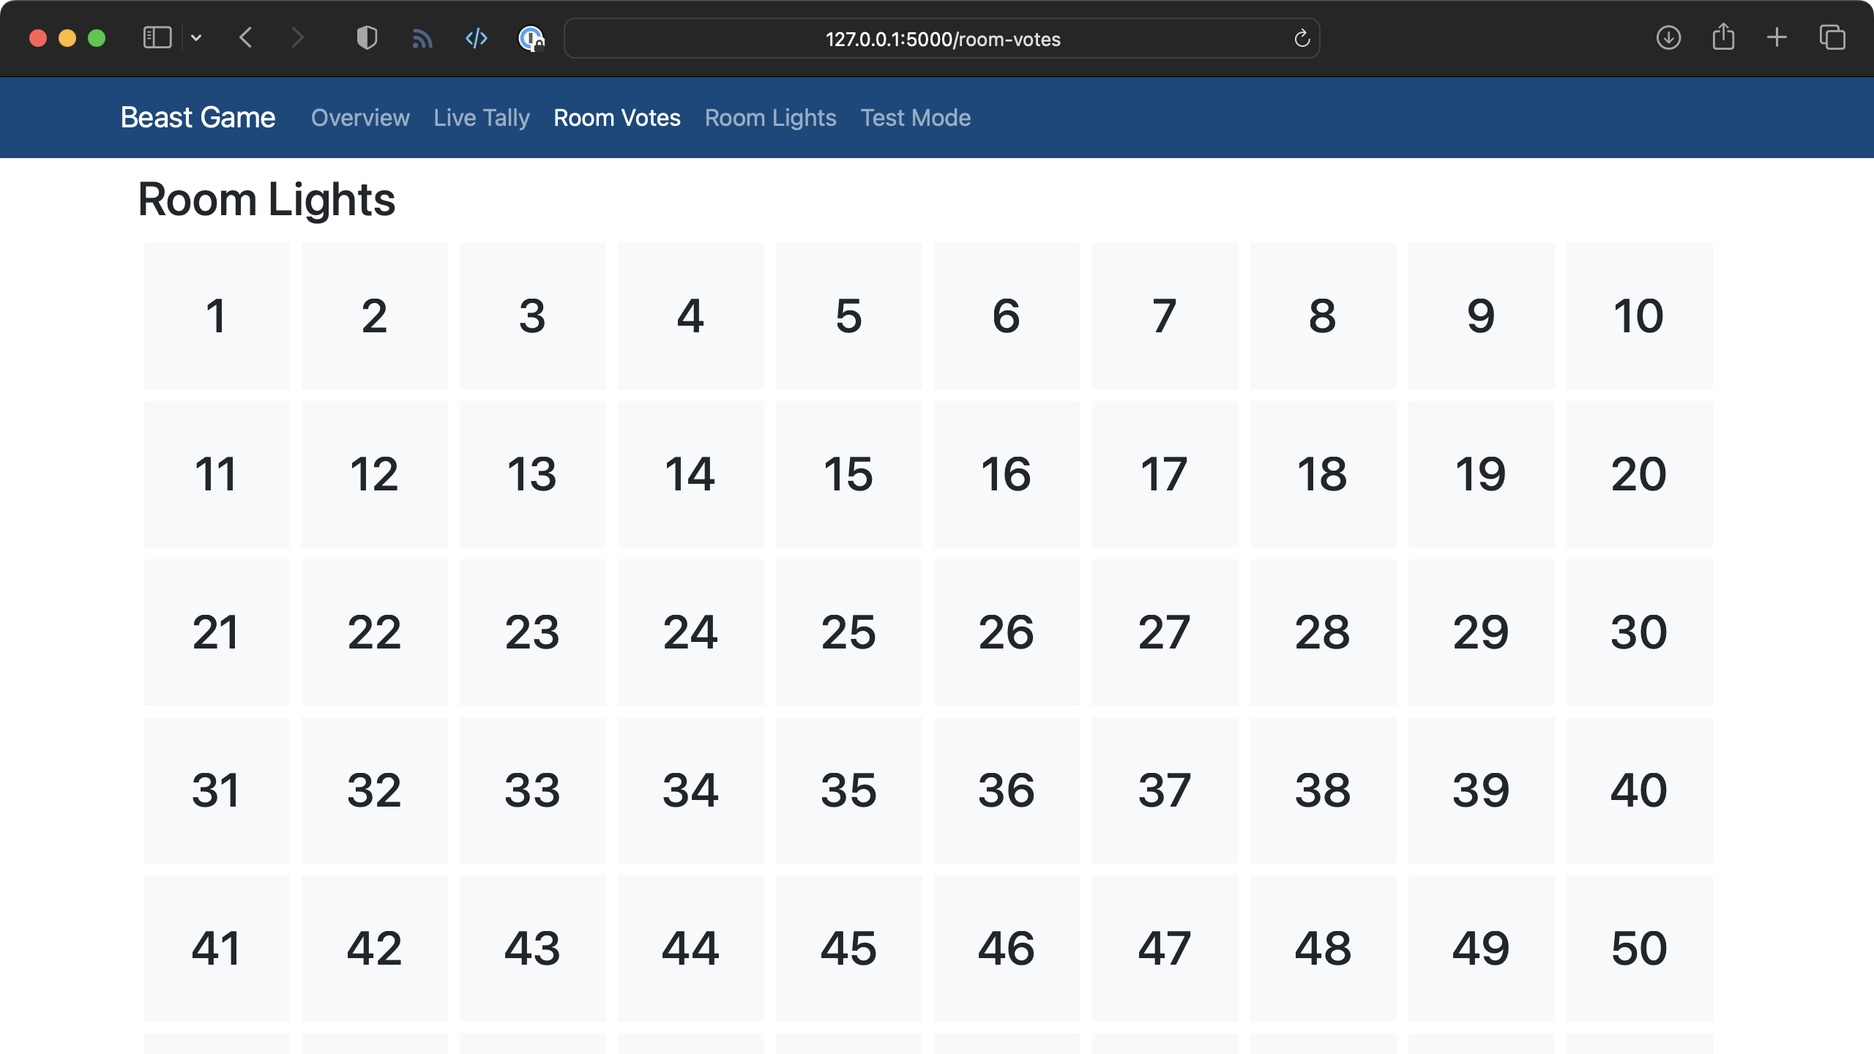
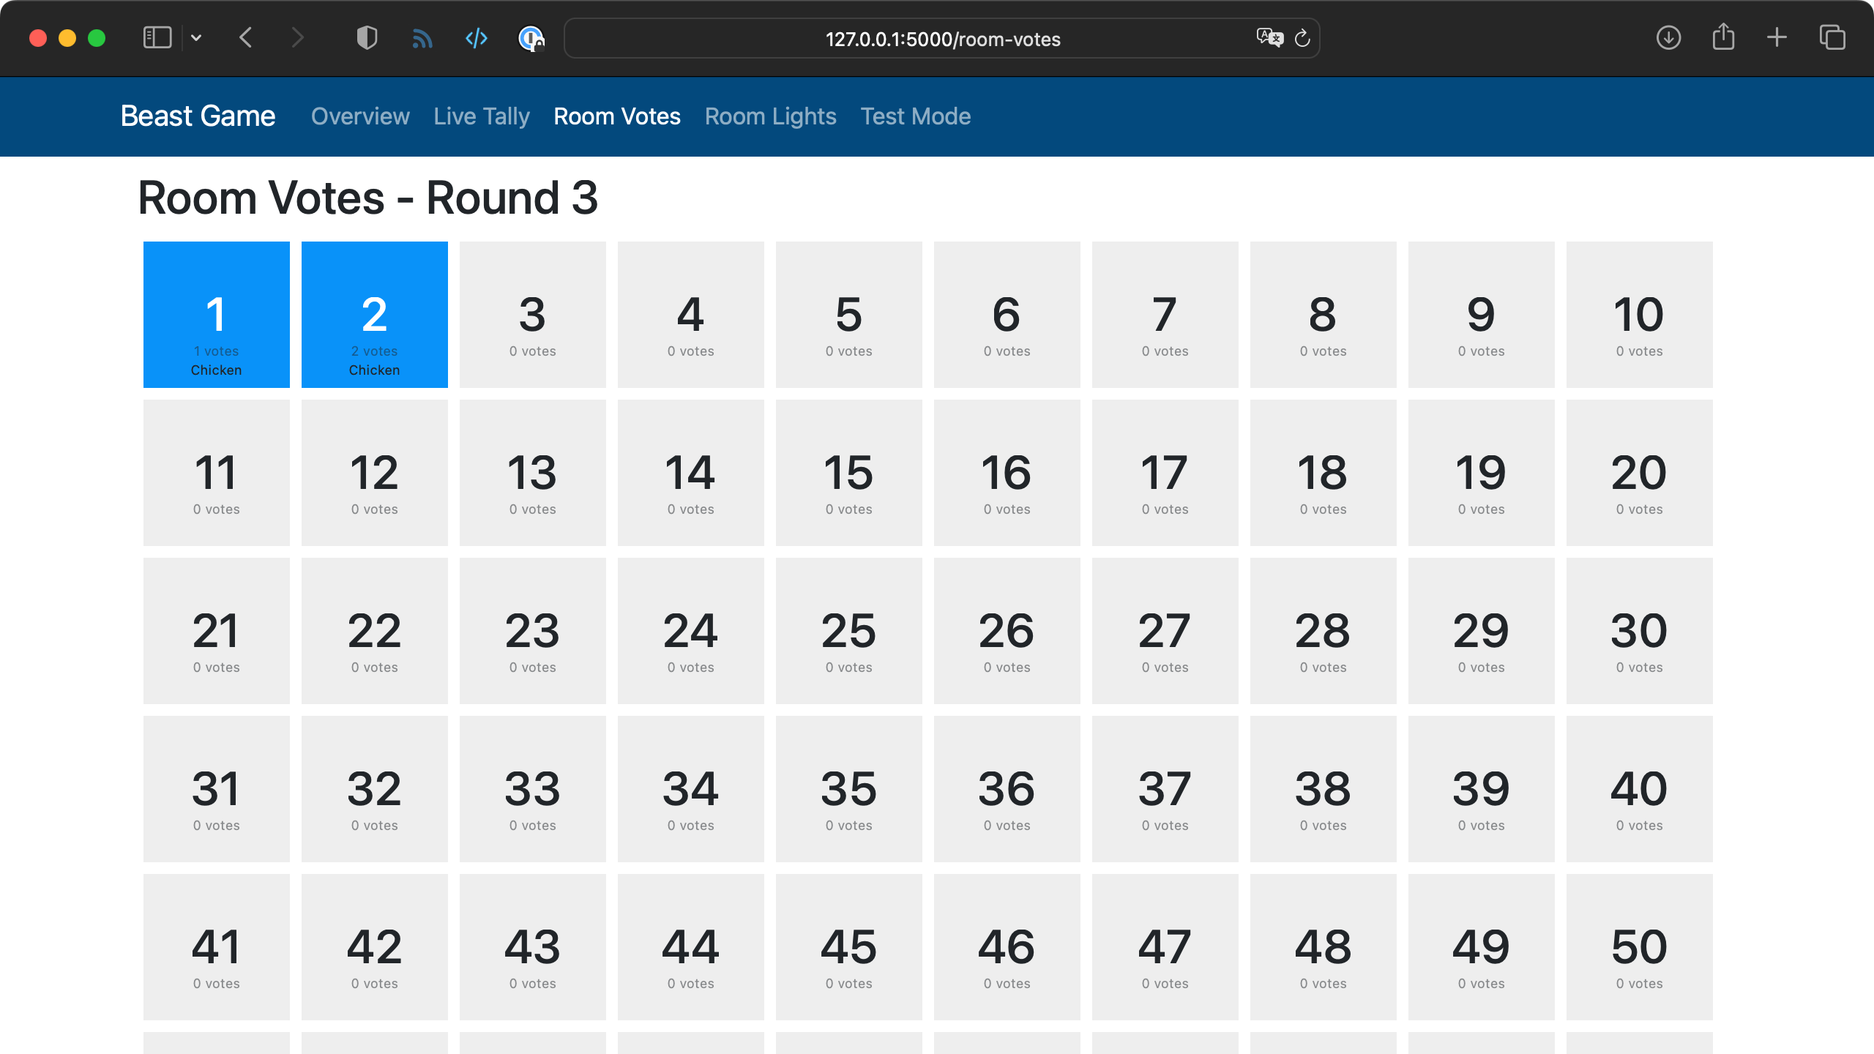
Issue #4, Issue #7: Make Room Lights and Room Votes work using live data from the DB.

diff --git a/leader-app/templates/room_lights.html b/leader-app/templates/room_lights.html
@@ -5,10 +5,29 @@
     <div class="room-grid d-flex flex-wrap">
         {% for room in rooms %}
             <!-- TODO bg-dark should be dynamic based on room 'color' -->
-            <div class="room m-1 p-0 bg-dark text-light text-center">
-                <h2 class="room-id">{{ room }}</h2>
+            <div class="room m-1 p-0 bg-{{ room.color }} text-light text-center">
+                <h2 class="room-id">{{ room.room_id }}</h2>
             </div>
         {% endfor %}
+    </div>
+    <div class="card mt-3" style="width: 50rem;">
+      <div class="card-body">
+        <h5 class="card-title">Bulk Change Room Lights</h5>
+        <p class="card-text">Select a color to apply to all rooms.</p>
+        <div class="d-inline-flex w-50">
+            <select class="form-select">
+                <option selected>-- Choose a color --</option>
+                <option value="off">off</option>
+                <option value="white">white</option>
+                <option value="red">red</option>
+                <option value="green">green</option>
+                <option value="blue">blue</option>
+            </select>
+        </div>
+        <div class="d-inline-flex w-25">
+            <a href="#" class="btn btn-primary">Save Color</a>
+        </div>
+      </div>
     </div>
     <!-- Refresh page every 5 seconds -->
     <script type="text/javascript">

diff --git a/leader-app/templates/room_votes.html b/leader-app/templates/room_votes.html
@@ -1,12 +1,18 @@
 {% extends 'base.html' %}
 
 {% block content %}
-    <h2>Room Lights</h2>
+    <h2>Room Votes - Round {{ round.round_id }}</h2>
     <div class="room-grid d-flex flex-wrap">
         {% for room in rooms %}
-            <!-- TODO bg-dark should be dynamic based on room 'color' -->
-            <div class="room m-1 p-0 bg-light text-dark text-center">
-                <h2 class="room-id">{{ room }}</h2>
+            <!-- TODO bg-light should be dynamic based on room 'color' -->
+            <div class="room m-1 p-0 text-dark text-center{{ ' has-voted' if room.most_recent_vote }}">
+                <h2 class="room-id">{{ room.room_id }}</h2>
+                <div class="vote-data">
+                    <div class="number-of-votes">
+                        <span class="vote-count">{{ room.votes_this_round }} votes</span><br>
+                        <span class="vote-value">{{ room.most_recent_vote }}</span>
+                    </div>
+                </div>
             </div>
         {% endfor %}
     </div>

diff --git a/leader-app/static/custom.css b/leader-app/static/custom.css
@@ -63,8 +63,41 @@ nav.navbar-beast {
     height: 100px;
 }
 
+.room-grid .room {
+    background-color: #eeeeee;
+}
+
+.room-grid .has-voted {
+    background-color: #0992f9;
+}
+
+.room-grid .vote-count {
+    opacity: .5;
+}
+
+.room-grid .has-voted h2 {
+    color: #ffffff;
+}
+
 .room-grid .room h2 {
     padding-top: 30px;
+    margin-bottom: 0;
+}
+
+.room-grid .bg-red { background-color: #ff0000; }
+.room-grid .bg-green { background-color: #00ff00; }
+.room-grid .bg-blue { background-color: #0000ff; }
+.room-grid .bg-white {
+    color: #000 !important;
+    background-color: #ffffff !important;
+}
+.room-grid .bg-off {
+    color: #dddddd;
+    background-color: #eeeeee;
+}
+
+.room-grid .number-of-votes {
+    font-size: .2em;
 }
 
 /* Test Mode Page */

diff --git a/leader-app/templates/tally.html b/leader-app/templates/tally.html
@@ -31,7 +31,7 @@
     <!-- Refresh page every 5 seconds -->
     <!-- TODO: Use more intelligent refresh (e.g. javascript / ajax refresh) -->
     <script type="text/javascript">
-        // setTimeout(function () { location.reload(1); }, 5000);
+        setTimeout(function () { location.reload(1); }, 5000);
     </script>
 </body>
 </html>

diff --git a/leader-app/init_db.py b/leader-app/init_db.py
@@ -10,16 +10,106 @@ with open('schema.sql') as f:
 cur = connection.cursor()
 
 # Populate the rooms table with some values.
-cur.execute("INSERT INTO rooms (room_id, mac_address) VALUES (?,?)", (1,"b8:27:eb:cd:09:30",))
-cur.execute("INSERT INTO rooms (room_id, mac_address) VALUES (?,?)", (2,"b8:27:eb:cd:09:31",))
-cur.execute("INSERT INTO rooms (room_id, mac_address) VALUES (?,?)", (3,"b8:27:eb:cd:09:32",))
-cur.execute("INSERT INTO rooms (room_id, mac_address) VALUES (?,?)", (4,"b8:27:eb:cd:09:33",))
-cur.execute("INSERT INTO rooms (room_id, mac_address) VALUES (?,?)", (5,"b8:27:eb:cd:09:34",))
-cur.execute("INSERT INTO rooms (room_id, mac_address) VALUES (?,?)", (6,"b8:27:eb:cd:09:35",))
-cur.execute("INSERT INTO rooms (room_id, mac_address) VALUES (?,?)", (7,"b8:27:eb:cd:09:36",))
-cur.execute("INSERT INTO rooms (room_id, mac_address) VALUES (?,?)", (8,"b8:27:eb:cd:09:37",))
-cur.execute("INSERT INTO rooms (room_id, mac_address) VALUES (?,?)", (9,"b8:27:eb:cd:09:38",))
-cur.execute("INSERT INTO rooms (room_id, mac_address) VALUES (?,?)", (10,"b8:27:eb:cd:09:39",))
+cur.execute("INSERT INTO rooms (room_id, mac_address, color) VALUES (?,?,?)", (1,"b8:27:eb:cd:09:30","white"))
+cur.execute("INSERT INTO rooms (room_id, mac_address, color) VALUES (?,?,?)", (2,"b8:27:eb:cd:09:31","white"))
+cur.execute("INSERT INTO rooms (room_id, mac_address, color) VALUES (?,?,?)", (3,"b8:27:eb:cd:09:32","white"))
+cur.execute("INSERT INTO rooms (room_id, mac_address, color) VALUES (?,?,?)", (4,"b8:27:eb:cd:09:33","red"))
+cur.execute("INSERT INTO rooms (room_id, mac_address, color) VALUES (?,?,?)", (5,"b8:27:eb:cd:09:34","white"))
+cur.execute("INSERT INTO rooms (room_id, mac_address, color) VALUES (?,?,?)", (6,"b8:27:eb:cd:09:35","white"))
+cur.execute("INSERT INTO rooms (room_id, mac_address, color) VALUES (?,?,?)", (7,"b8:27:eb:cd:09:36","white"))
+cur.execute("INSERT INTO rooms (room_id, mac_address, color) VALUES (?,?,?)", (8,"b8:27:eb:cd:09:37","white"))
+cur.execute("INSERT INTO rooms (room_id, mac_address, color) VALUES (?,?,?)", (9,"b8:27:eb:cd:09:38","white"))
+cur.execute("INSERT INTO rooms (room_id, mac_address, color) VALUES (?,?,?)", (10,"b8:27:eb:cd:09:39","white"))
+cur.execute("INSERT INTO rooms (room_id, mac_address, color) VALUES (?,?,?)", (11,"b8:27:eb:cd:09:30","white"))
+cur.execute("INSERT INTO rooms (room_id, mac_address, color) VALUES (?,?,?)", (12,"b8:27:eb:cd:09:31","white"))
+cur.execute("INSERT INTO rooms (room_id, mac_address, color) VALUES (?,?,?)", (13,"b8:27:eb:cd:09:32","white"))
+cur.execute("INSERT INTO rooms (room_id, mac_address, color) VALUES (?,?,?)", (14,"b8:27:eb:cd:09:33","white"))
+cur.execute("INSERT INTO rooms (room_id, mac_address, color) VALUES (?,?,?)", (15,"b8:27:eb:cd:09:34","white"))
+cur.execute("INSERT INTO rooms (room_id, mac_address, color) VALUES (?,?,?)", (16,"b8:27:eb:cd:09:35","white"))
+cur.execute("INSERT INTO rooms (room_id, mac_address, color) VALUES (?,?,?)", (17,"b8:27:eb:cd:09:36","white"))
+cur.execute("INSERT INTO rooms (room_id, mac_address, color) VALUES (?,?,?)", (18,"b8:27:eb:cd:09:37","red"))
+cur.execute("INSERT INTO rooms (room_id, mac_address, color) VALUES (?,?,?)", (19,"b8:27:eb:cd:09:38","white"))
+cur.execute("INSERT INTO rooms (room_id, mac_address, color) VALUES (?,?,?)", (20,"b8:27:eb:cd:09:39","white"))
+cur.execute("INSERT INTO rooms (room_id, mac_address, color) VALUES (?,?,?)", (21,"b8:27:eb:cd:09:30","white"))
+cur.execute("INSERT INTO rooms (room_id, mac_address, color) VALUES (?,?,?)", (22,"b8:27:eb:cd:09:31","white"))
+cur.execute("INSERT INTO rooms (room_id, mac_address, color) VALUES (?,?,?)", (23,"b8:27:eb:cd:09:32","white"))
+cur.execute("INSERT INTO rooms (room_id, mac_address, color) VALUES (?,?,?)", (24,"b8:27:eb:cd:09:33","white"))
+cur.execute("INSERT INTO rooms (room_id, mac_address, color) VALUES (?,?,?)", (25,"b8:27:eb:cd:09:34","white"))
+cur.execute("INSERT INTO rooms (room_id, mac_address, color) VALUES (?,?,?)", (26,"b8:27:eb:cd:09:35","white"))
+cur.execute("INSERT INTO rooms (room_id, mac_address, color) VALUES (?,?,?)", (27,"b8:27:eb:cd:09:36","white"))
+cur.execute("INSERT INTO rooms (room_id, mac_address, color) VALUES (?,?,?)", (28,"b8:27:eb:cd:09:37","white"))
+cur.execute("INSERT INTO rooms (room_id, mac_address, color) VALUES (?,?,?)", (29,"b8:27:eb:cd:09:38","white"))
+cur.execute("INSERT INTO rooms (room_id, mac_address, color) VALUES (?,?,?)", (30,"b8:27:eb:cd:09:39","red"))
+cur.execute("INSERT INTO rooms (room_id, mac_address, color) VALUES (?,?,?)", (31,"b8:27:eb:cd:09:30","white"))
+cur.execute("INSERT INTO rooms (room_id, mac_address, color) VALUES (?,?,?)", (32,"b8:27:eb:cd:09:31","white"))
+cur.execute("INSERT INTO rooms (room_id, mac_address, color) VALUES (?,?,?)", (33,"b8:27:eb:cd:09:32","white"))
+cur.execute("INSERT INTO rooms (room_id, mac_address, color) VALUES (?,?,?)", (34,"b8:27:eb:cd:09:33","white"))
+cur.execute("INSERT INTO rooms (room_id, mac_address, color) VALUES (?,?,?)", (35,"b8:27:eb:cd:09:34","red"))
+cur.execute("INSERT INTO rooms (room_id, mac_address, color) VALUES (?,?,?)", (36,"b8:27:eb:cd:09:35","white"))
+cur.execute("INSERT INTO rooms (room_id, mac_address, color) VALUES (?,?,?)", (37,"b8:27:eb:cd:09:36","white"))
+cur.execute("INSERT INTO rooms (room_id, mac_address, color) VALUES (?,?,?)", (38,"b8:27:eb:cd:09:37","white"))
+cur.execute("INSERT INTO rooms (room_id, mac_address, color) VALUES (?,?,?)", (39,"b8:27:eb:cd:09:38","white"))
+cur.execute("INSERT INTO rooms (room_id, mac_address, color) VALUES (?,?,?)", (40,"b8:27:eb:cd:09:39","white"))
+cur.execute("INSERT INTO rooms (room_id, mac_address, color) VALUES (?,?,?)", (41,"b8:27:eb:cd:09:30","white"))
+cur.execute("INSERT INTO rooms (room_id, mac_address, color) VALUES (?,?,?)", (42,"b8:27:eb:cd:09:31","white"))
+cur.execute("INSERT INTO rooms (room_id, mac_address, color) VALUES (?,?,?)", (43,"b8:27:eb:cd:09:32","off"))
+cur.execute("INSERT INTO rooms (room_id, mac_address, color) VALUES (?,?,?)", (44,"b8:27:eb:cd:09:33","white"))
+cur.execute("INSERT INTO rooms (room_id, mac_address, color) VALUES (?,?,?)", (45,"b8:27:eb:cd:09:34","white"))
+cur.execute("INSERT INTO rooms (room_id, mac_address, color) VALUES (?,?,?)", (46,"b8:27:eb:cd:09:35","white"))
+cur.execute("INSERT INTO rooms (room_id, mac_address, color) VALUES (?,?,?)", (47,"b8:27:eb:cd:09:36","white"))
+cur.execute("INSERT INTO rooms (room_id, mac_address, color) VALUES (?,?,?)", (48,"b8:27:eb:cd:09:37","white"))
+cur.execute("INSERT INTO rooms (room_id, mac_address, color) VALUES (?,?,?)", (49,"b8:27:eb:cd:09:38","white"))
+cur.execute("INSERT INTO rooms (room_id, mac_address, color) VALUES (?,?,?)", (50,"b8:27:eb:cd:09:39","white"))
+cur.execute("INSERT INTO rooms (room_id, mac_address, color) VALUES (?,?,?)", (51,"b8:27:eb:cd:09:30","white"))
+cur.execute("INSERT INTO rooms (room_id, mac_address, color) VALUES (?,?,?)", (52,"b8:27:eb:cd:09:31","white"))
+cur.execute("INSERT INTO rooms (room_id, mac_address, color) VALUES (?,?,?)", (53,"b8:27:eb:cd:09:32","white"))
+cur.execute("INSERT INTO rooms (room_id, mac_address, color) VALUES (?,?,?)", (54,"b8:27:eb:cd:09:33","white"))
+cur.execute("INSERT INTO rooms (room_id, mac_address, color) VALUES (?,?,?)", (55,"b8:27:eb:cd:09:34","white"))
+cur.execute("INSERT INTO rooms (room_id, mac_address, color) VALUES (?,?,?)", (56,"b8:27:eb:cd:09:35","white"))
+cur.execute("INSERT INTO rooms (room_id, mac_address, color) VALUES (?,?,?)", (57,"b8:27:eb:cd:09:36","white"))
+cur.execute("INSERT INTO rooms (room_id, mac_address, color) VALUES (?,?,?)", (58,"b8:27:eb:cd:09:37","white"))
+cur.execute("INSERT INTO rooms (room_id, mac_address, color) VALUES (?,?,?)", (59,"b8:27:eb:cd:09:38","white"))
+cur.execute("INSERT INTO rooms (room_id, mac_address, color) VALUES (?,?,?)", (60,"b8:27:eb:cd:09:39","red"))
+cur.execute("INSERT INTO rooms (room_id, mac_address, color) VALUES (?,?,?)", (61,"b8:27:eb:cd:09:30","white"))
+cur.execute("INSERT INTO rooms (room_id, mac_address, color) VALUES (?,?,?)", (62,"b8:27:eb:cd:09:31","white"))
+cur.execute("INSERT INTO rooms (room_id, mac_address, color) VALUES (?,?,?)", (63,"b8:27:eb:cd:09:32","white"))
+cur.execute("INSERT INTO rooms (room_id, mac_address, color) VALUES (?,?,?)", (64,"b8:27:eb:cd:09:33","white"))
+cur.execute("INSERT INTO rooms (room_id, mac_address, color) VALUES (?,?,?)", (65,"b8:27:eb:cd:09:34","white"))
+cur.execute("INSERT INTO rooms (room_id, mac_address, color) VALUES (?,?,?)", (66,"b8:27:eb:cd:09:35","white"))
+cur.execute("INSERT INTO rooms (room_id, mac_address, color) VALUES (?,?,?)", (67,"b8:27:eb:cd:09:36","white"))
+cur.execute("INSERT INTO rooms (room_id, mac_address, color) VALUES (?,?,?)", (68,"b8:27:eb:cd:09:37","off"))
+cur.execute("INSERT INTO rooms (room_id, mac_address, color) VALUES (?,?,?)", (69,"b8:27:eb:cd:09:38","white"))
+cur.execute("INSERT INTO rooms (room_id, mac_address, color) VALUES (?,?,?)", (70,"b8:27:eb:cd:09:39","white"))
+cur.execute("INSERT INTO rooms (room_id, mac_address, color) VALUES (?,?,?)", (71,"b8:27:eb:cd:09:30","white"))
+cur.execute("INSERT INTO rooms (room_id, mac_address, color) VALUES (?,?,?)", (72,"b8:27:eb:cd:09:31","white"))
+cur.execute("INSERT INTO rooms (room_id, mac_address, color) VALUES (?,?,?)", (73,"b8:27:eb:cd:09:32","white"))
+cur.execute("INSERT INTO rooms (room_id, mac_address, color) VALUES (?,?,?)", (74,"b8:27:eb:cd:09:33","white"))
+cur.execute("INSERT INTO rooms (room_id, mac_address, color) VALUES (?,?,?)", (75,"b8:27:eb:cd:09:34","white"))
+cur.execute("INSERT INTO rooms (room_id, mac_address, color) VALUES (?,?,?)", (76,"b8:27:eb:cd:09:35","white"))
+cur.execute("INSERT INTO rooms (room_id, mac_address, color) VALUES (?,?,?)", (77,"b8:27:eb:cd:09:36","white"))
+cur.execute("INSERT INTO rooms (room_id, mac_address, color) VALUES (?,?,?)", (78,"b8:27:eb:cd:09:37","white"))
+cur.execute("INSERT INTO rooms (room_id, mac_address, color) VALUES (?,?,?)", (79,"b8:27:eb:cd:09:38","white"))
+cur.execute("INSERT INTO rooms (room_id, mac_address, color) VALUES (?,?,?)", (80,"b8:27:eb:cd:09:39","white"))
+cur.execute("INSERT INTO rooms (room_id, mac_address, color) VALUES (?,?,?)", (81,"b8:27:eb:cd:09:30","off"))
+cur.execute("INSERT INTO rooms (room_id, mac_address, color) VALUES (?,?,?)", (82,"b8:27:eb:cd:09:31","white"))
+cur.execute("INSERT INTO rooms (room_id, mac_address, color) VALUES (?,?,?)", (83,"b8:27:eb:cd:09:32","white"))
+cur.execute("INSERT INTO rooms (room_id, mac_address, color) VALUES (?,?,?)", (84,"b8:27:eb:cd:09:33","off"))
+cur.execute("INSERT INTO rooms (room_id, mac_address, color) VALUES (?,?,?)", (85,"b8:27:eb:cd:09:34","white"))
+cur.execute("INSERT INTO rooms (room_id, mac_address, color) VALUES (?,?,?)", (86,"b8:27:eb:cd:09:35","white"))
+cur.execute("INSERT INTO rooms (room_id, mac_address, color) VALUES (?,?,?)", (87,"b8:27:eb:cd:09:36","white"))
+cur.execute("INSERT INTO rooms (room_id, mac_address, color) VALUES (?,?,?)", (88,"b8:27:eb:cd:09:37","read"))
+cur.execute("INSERT INTO rooms (room_id, mac_address, color) VALUES (?,?,?)", (89,"b8:27:eb:cd:09:38","red"))
+cur.execute("INSERT INTO rooms (room_id, mac_address, color) VALUES (?,?,?)", (90,"b8:27:eb:cd:09:39","white"))
+cur.execute("INSERT INTO rooms (room_id, mac_address, color) VALUES (?,?,?)", (91,"b8:27:eb:cd:09:30","white"))
+cur.execute("INSERT INTO rooms (room_id, mac_address, color) VALUES (?,?,?)", (92,"b8:27:eb:cd:09:31","white"))
+cur.execute("INSERT INTO rooms (room_id, mac_address, color) VALUES (?,?,?)", (93,"b8:27:eb:cd:09:32","white"))
+cur.execute("INSERT INTO rooms (room_id, mac_address, color) VALUES (?,?,?)", (94,"b8:27:eb:cd:09:33","white"))
+cur.execute("INSERT INTO rooms (room_id, mac_address, color) VALUES (?,?,?)", (95,"b8:27:eb:cd:09:34","white"))
+cur.execute("INSERT INTO rooms (room_id, mac_address, color) VALUES (?,?,?)", (96,"b8:27:eb:cd:09:35","white"))
+cur.execute("INSERT INTO rooms (room_id, mac_address, color) VALUES (?,?,?)", (97,"b8:27:eb:cd:09:36","white"))
+cur.execute("INSERT INTO rooms (room_id, mac_address, color) VALUES (?,?,?)", (98,"b8:27:eb:cd:09:37","white"))
+cur.execute("INSERT INTO rooms (room_id, mac_address, color) VALUES (?,?,?)", (99,"b8:27:eb:cd:09:38","white"))
+cur.execute("INSERT INTO rooms (room_id, mac_address, color) VALUES (?,?,?)", (100,"b8:27:eb:cd:09:39","white"))
 
 # Populate the rounds table with some values.
 time_now = time.strftime("%Y-%m-%d %H:%M:%f", time.gmtime())
@@ -28,25 +118,25 @@ cur.execute("INSERT INTO rounds (round_id, start_time, close_time, is_accepting_
 cur.execute("INSERT INTO rounds (round_id, start_time, is_accepting_votes, is_current, is_allowing_multiple_votes, value_0, value_1, value_2) VALUES (?,?,?,?,?,?,?,?)", (3,time_now,1,1,1,"Chicken","Steak","Oatmeal"))
 
 # Populate the votes table with some values.
-cur.execute("INSERT INTO votes (room_id, value, round_id) VALUES (?,?,?)", (1,1,1,))
+cur.execute("INSERT INTO votes (room_id, value, round_id) VALUES (?,?,?)", (1,1,1))
 time.sleep(0.001)
-cur.execute("INSERT INTO votes (room_id, value, round_id) VALUES (?,?,?)", (2,1,1,))
-cur.execute("INSERT INTO votes (room_id, value, round_id) VALUES (?,?,?)", (3,0,1,))
+cur.execute("INSERT INTO votes (room_id, value, round_id) VALUES (?,?,?)", (2,1,1))
+cur.execute("INSERT INTO votes (room_id, value, round_id) VALUES (?,?,?)", (3,0,1))
 time.sleep(0.001)
-cur.execute("INSERT INTO votes (room_id, value, round_id) VALUES (?,?,?)", (4,0,1,))
-cur.execute("INSERT INTO votes (room_id, value, round_id) VALUES (?,?,?)", (5,1,1,))
-cur.execute("INSERT INTO votes (room_id, value, round_id) VALUES (?,?,?)", (6,0,1,))
-cur.execute("INSERT INTO votes (room_id, value, round_id) VALUES (?,?,?)", (7,1,1,))
-cur.execute("INSERT INTO votes (room_id, value, round_id) VALUES (?,?,?)", (8,1,1,))
-cur.execute("INSERT INTO votes (room_id, value, round_id) VALUES (?,?,?)", (9,0,1,))
+cur.execute("INSERT INTO votes (room_id, value, round_id) VALUES (?,?,?)", (4,0,1))
+cur.execute("INSERT INTO votes (room_id, value, round_id) VALUES (?,?,?)", (5,1,1))
+cur.execute("INSERT INTO votes (room_id, value, round_id) VALUES (?,?,?)", (6,0,1))
+cur.execute("INSERT INTO votes (room_id, value, round_id) VALUES (?,?,?)", (7,1,1))
+cur.execute("INSERT INTO votes (room_id, value, round_id) VALUES (?,?,?)", (8,1,1))
+cur.execute("INSERT INTO votes (room_id, value, round_id) VALUES (?,?,?)", (9,0,1))
 time.sleep(0.001)
-cur.execute("INSERT INTO votes (room_id, value, round_id) VALUES (?,?,?)", (10,1,1,))
+cur.execute("INSERT INTO votes (room_id, value, round_id) VALUES (?,?,?)", (10,1,1))
 time.sleep(0.001)
-cur.execute("INSERT INTO votes (room_id, value, round_id) VALUES (?,?,?)", (1,0,3,))
+cur.execute("INSERT INTO votes (room_id, value, round_id) VALUES (?,?,?)", (1,0,3))
 time.sleep(0.001)
-cur.execute("INSERT INTO votes (room_id, value, round_id) VALUES (?,?,?)", (2,1,3,))
+cur.execute("INSERT INTO votes (room_id, value, round_id) VALUES (?,?,?)", (2,1,3))
 time.sleep(0.005)
-cur.execute("INSERT INTO votes (room_id, value, round_id) VALUES (?,?,?)", (2,0,3,))
+cur.execute("INSERT INTO votes (room_id, value, round_id) VALUES (?,?,?)", (2,0,3))
 
 connection.commit()
 connection.close()

diff --git a/leader-app/app.py b/leader-app/app.py
@@ -1,5 +1,6 @@
 import sqlite3
 import time
+import random
 from flask import Flask, json, jsonify, request, make_response, render_template, g
 
 app = Flask(__name__)
@@ -13,14 +14,35 @@ def get_db_connection():
 
 def get_current_round():
     conn = get_db_connection()
-    current_round = conn.execute('SELECT * FROM rounds WHERE is_current = 1').fetchone()
+    current_round = conn.execute('SELECT * FROM rounds WHERE is_current = 1 ORDER BY start_time DESC').fetchone()
     conn.close()
     return current_round
+
+
+def get_rooms():
+    conn = get_db_connection()
+    rooms = conn.execute('SELECT * FROM rooms').fetchall()
+    conn.close()
+    return rooms
 
 
 def room_submitted_vote_for_round(room_id, round_id):
     conn = get_db_connection()
     vote = conn.execute('SELECT * FROM votes WHERE room_id = ? AND round_id = ?', (room_id, round_id)).fetchone()
+    conn.close()
+    return vote
+
+
+def room_vote_count_for_round(room_id, round_id):
+    conn = get_db_connection()
+    count = conn.execute('SELECT COUNT(*) FROM votes WHERE room_id = ? AND round_id = ?', (room_id, round_id)).fetchone()
+    conn.close()
+    return count[0]
+
+
+def room_vote_latest_for_round(room_id, round_id):
+    conn = get_db_connection()
+    vote = conn.execute('SELECT * FROM votes WHERE room_id = ? AND round_id = ? ORDER BY created DESC', (room_id, round_id)).fetchone()
     conn.close()
     return vote
 
@@ -101,14 +123,41 @@ def tally():
 # Room vote status displayed on a web page.
 @app.route('/room-votes')
 def room_votes():
-    rooms = list(range(1, 101))  # TODO Get actual data here.
-    return render_template('room_votes.html', rooms=rooms, page='room-votes')
+    # TODO: Current round is hardcoded here. Might want to allow looking at
+    # vote data for other rounds (for reference). Maybe a query string param?
+    current_round = get_current_round()
+
+    # Build list of rooms and vote data.
+    rooms_with_vote_data = []
+    rooms = get_rooms()
+    for room in rooms:
+        room_copy = dict(zip(room.keys(), room))
+
+        # Add a count of total votes submitted this round.
+        room_copy['votes_this_round'] = room_vote_count_for_round(room['room_id'], current_round['round_id'])
+
+        # Add the most recent vote.
+        latest_vote = room_vote_latest_for_round(room['room_id'], current_round['round_id'])
+        vote_label = ''
+        if latest_vote is not None:
+            match latest_vote['value']:
+                case 0:
+                    vote_label = current_round['value_0']
+                case 1:
+                    vote_label = current_round['value_1']
+                case 2:
+                    vote_label = current_round['value_2']
+        room_copy['most_recent_vote'] = vote_label
+
+        # Add the data to our list of rooms.
+        rooms_with_vote_data.append(room_copy)
+    return render_template('room_votes.html', rooms=rooms_with_vote_data, round=current_round, page='room-votes')
 
 
 # Room light status displayed on a web page.
 @app.route('/room-lights')
 def room_lights():
-    rooms = list(range(1, 101))  # TODO Get actual data here.
+    rooms = get_rooms()
     return render_template('room_lights.html', rooms=rooms, page='room-lights')
 
 
